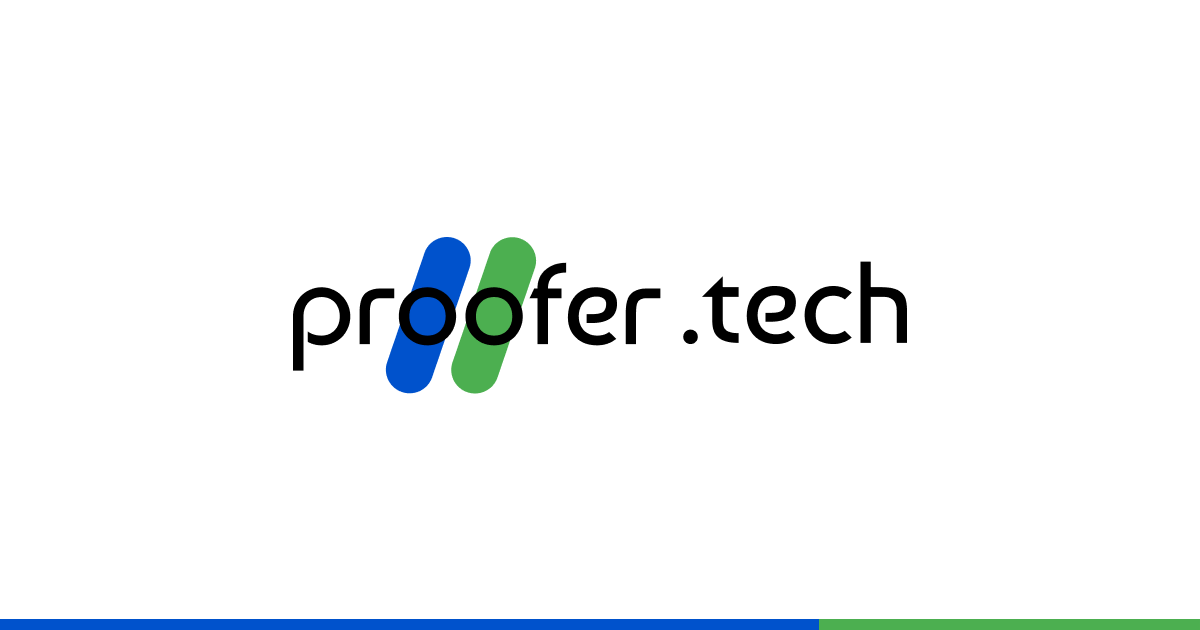
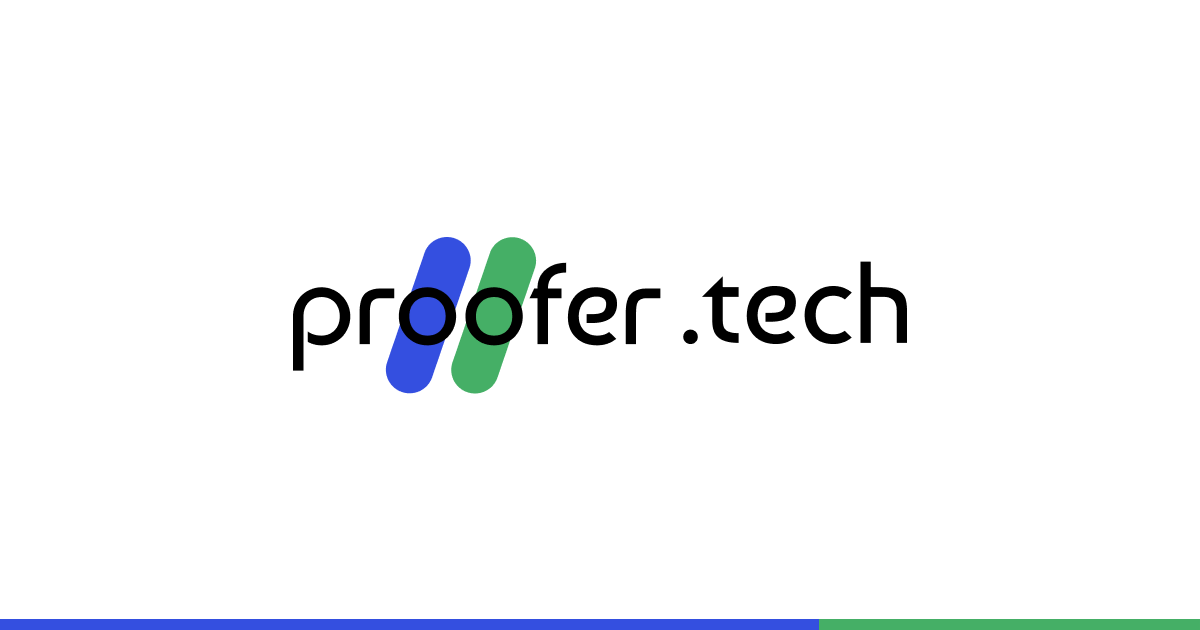
브랜딩 이미지 색 조정 및 webp 로 변경

Changed region(s): [[0.0, 0.9651, 0.7092, 1.0], [0.3083, 0.3619, 0.4008, 0.6333]]

diff --git a/app/subs/team/page.tsx b/app/subs/team/page.tsx
@@ -1,15 +1,15 @@
 import {
-  Container,
-  Stack,
-  Title,
-  Text,
-  Space,
-  Box,
-  SimpleGrid,
-  Group,
   Anchor,
-  Divider,
+  Box,
   Card,
+  Container,
+  Divider,
+  Group,
+  SimpleGrid,
+  Space,
+  Stack,
+  Text,
+  Title,
 } from "@mantine/core";
 import React from "react";
 import Image from "next/image";
@@ -78,7 +78,7 @@ export default function Page() {
           </SimpleGrid>
           <Space py={"xl"}>
             <Image
-              src={"/assets/images/team/proofer.tech.png"}
+              src={"/assets/images/team/proofer.tech.webp"}
               width={1600}
               height={311}
               style={{ width: "100%", height: "auto" }}
@@ -150,7 +150,7 @@ export default function Page() {
                   <Stack gap={"sm"}>
                     <Group>
                       <Image
-                        src={"/assets/images/with-cto/logo.png"}
+                        src={"/assets/images/with-cto/logo.svg"}
                         width={100}
                         height={100}
                         alt={"with CTO:"}
@@ -186,7 +186,7 @@ export default function Page() {
                   <Stack gap={"sm"}>
                     <Group>
                       <Image
-                        src={"/assets/images/team/measurable-developer.png"}
+                        src={"/assets/images/team/measurable-developer.webp"}
                         width={100}
                         height={100}
                         alt={"Measurable Developer"}

diff --git a/app/subs/blog/[...articlePath]/page.tsx b/app/subs/blog/[...articlePath]/page.tsx
@@ -137,7 +137,7 @@ export default async function Page({ params }: PageProps) {
           __html: JSON.stringify({
             "@context": "https://schema.org",
             "@type": "NewsArticle",
-            image: generateUrl("/assets/images/og-image.png"),
+            image: generateUrl("/assets/images/og-image.webp"),
             url: generateUrl(`/${article.slug}`, SUB_DOMAIN.blog),
             dateCreated: article.created_at,
             datePublished: article.created_at,

diff --git a/app/with-cto/1st/page.tsx b/app/with-cto/1st/page.tsx
@@ -30,7 +30,7 @@ export default function Page() {
               </Text>
               <Group align={"center"} p={0}>
                 <Image
-                  src={"/assets/images/with-cto/logo.png"}
+                  src={"/assets/images/with-cto/logo.svg"}
                   width={512}
                   height={512}
                   alt={"with CTO:"}

diff --git a/app/subs/team/layout.tsx b/app/subs/team/layout.tsx
@@ -21,7 +21,7 @@ export const metadata = merge(
       locale: "ko",
       type: "website",
       url: "https://team.proofer.tech/",
-      images: ["/assets/images/og-image.png"],
+      images: ["/assets/images/og-image.webp"],
     },
     alternates: {
       canonical: "https://team.proofer.tech",

diff --git a/app/with-cto/layout.tsx b/app/with-cto/layout.tsx
@@ -14,7 +14,7 @@ export const metadata = merge(
       locale: "ko",
       type: "website",
       url: "https://proofer.tech/with-cto",
-      images: ["/assets/images/with-cto/og-image.png"],
+      images: ["/assets/images/with-cto/og-image.webp"],
     },
     icons: [
       {

diff --git a/app/subs/blog/schema-organization.ts b/app/subs/blog/schema-organization.ts
@@ -9,7 +9,7 @@ const organizationSchema = {
     "@type": "ImageObject",
     width: 308,
     height: 60,
-    url: generateUrl("/assets/images/ic_launcher.png"),
+    url: generateUrl("/assets/images/ic_launcher.webp"),
   },
 };
 export default organizationSchema;

diff --git a/app/layout.tsx b/app/layout.tsx
@@ -42,7 +42,7 @@ export const metadata = merge(
       locale: "ko",
       type: "website",
       url: "https://proofer.tech",
-      images: ["/assets/images/og-image.png"],
+      images: ["/assets/images/og-image.webp"],
     },
     icons: [
       {
